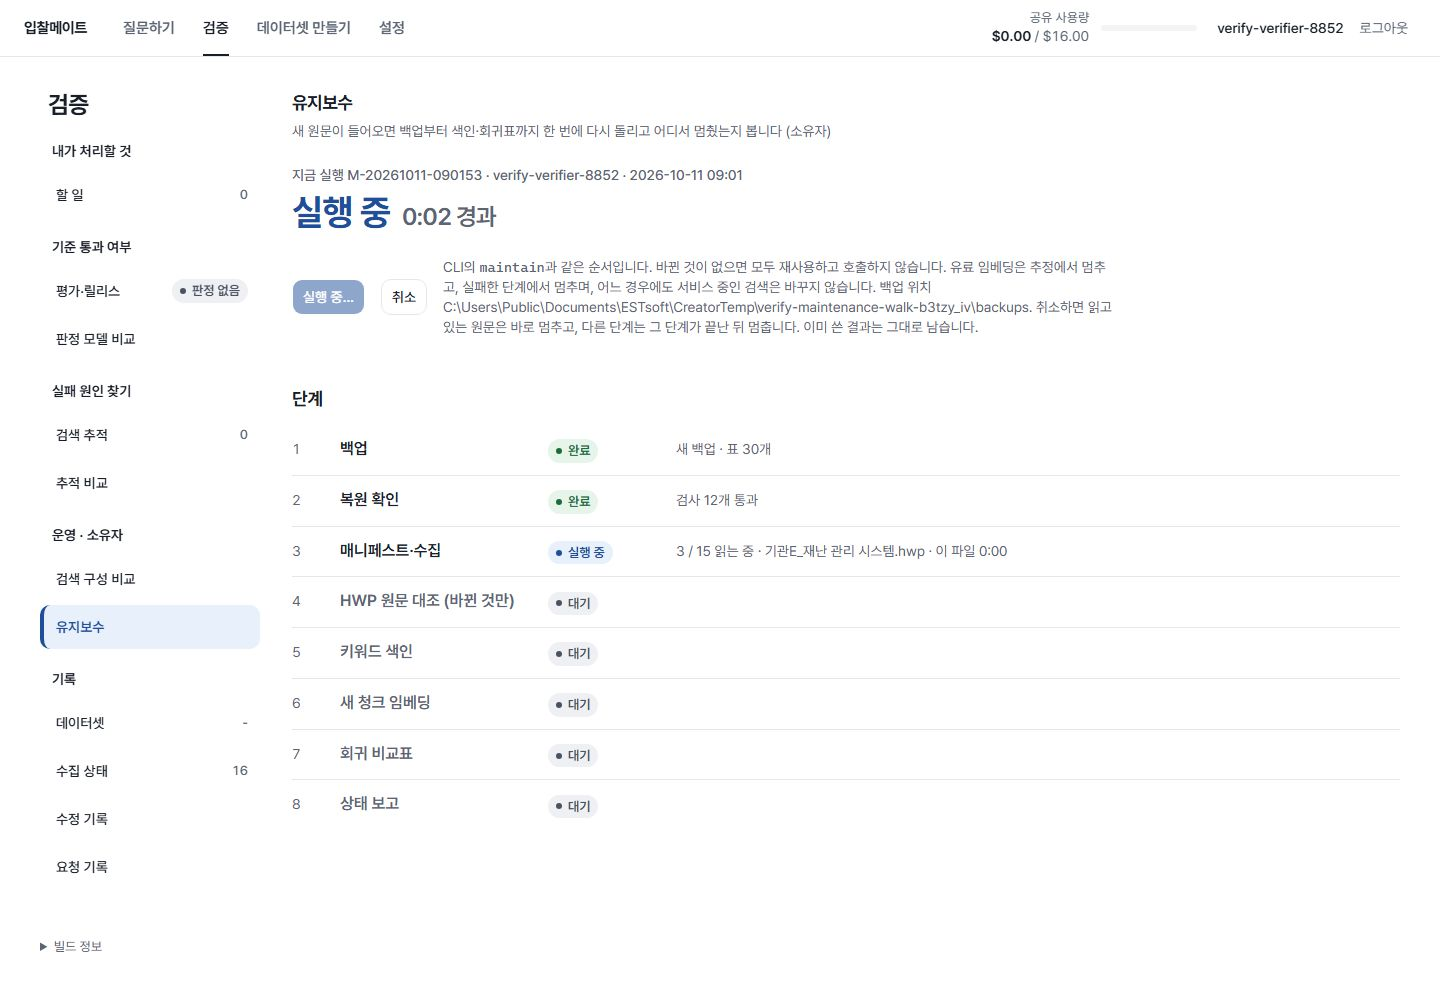
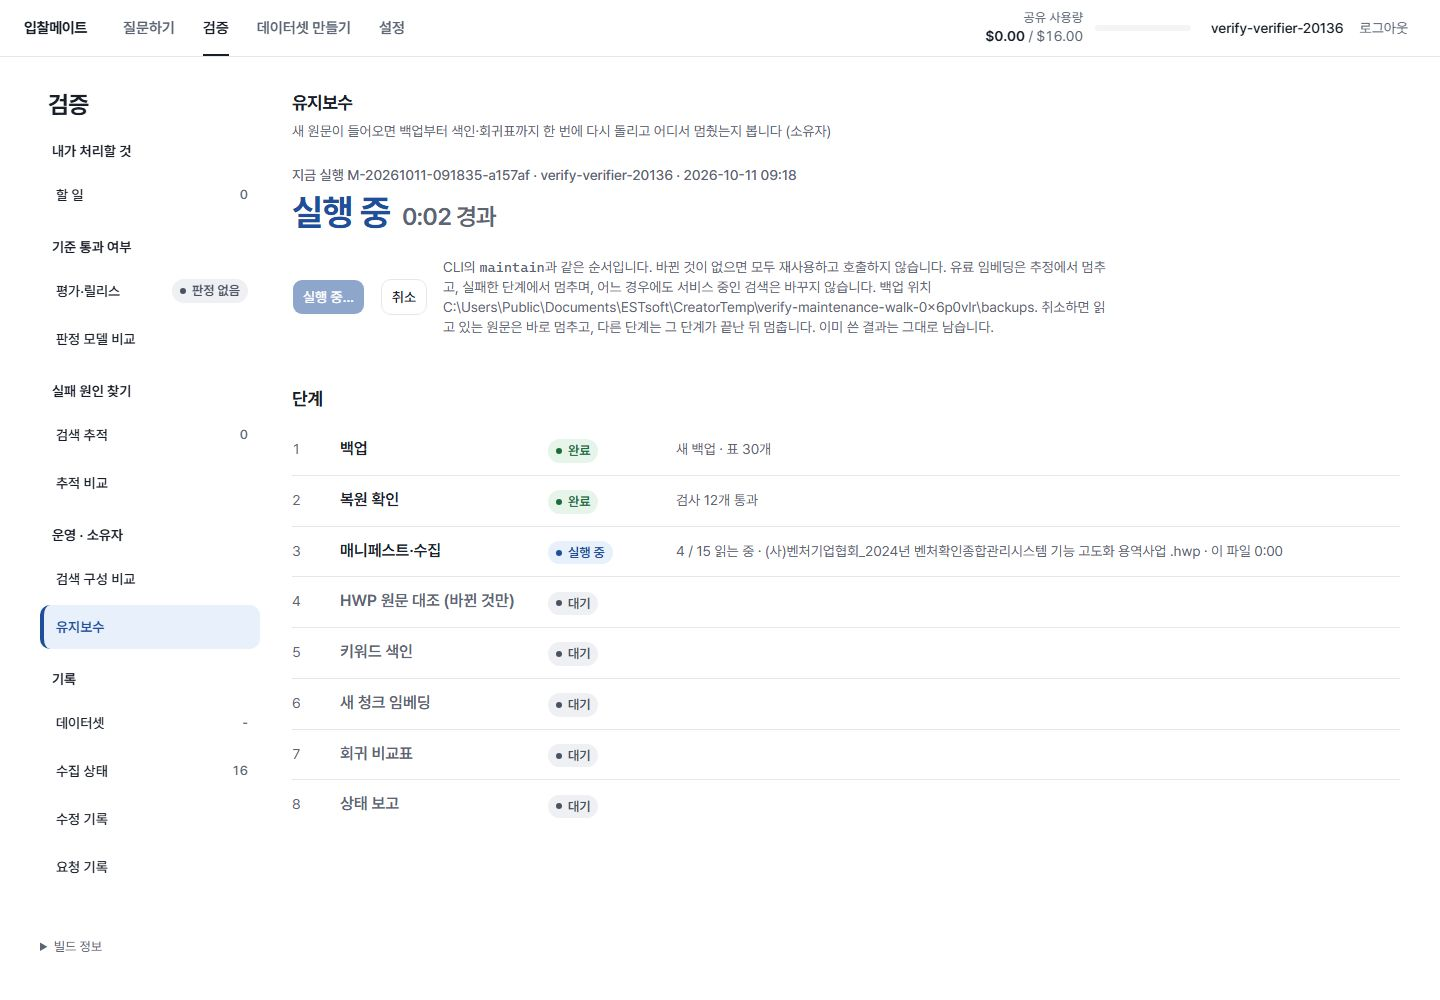
Maintenance walk: rerun at 9245c39 with the run-bound cancel
Review round 2, F4 evidence: the walk, the maintenance, API and ingestion tests
and the frontend checks rerun at the fix commit; a replayed cancel of the finished
run answers 400 and a cancel naming no run 422.

diff --git a/docs/history/maintenance-timeout-cancel/README.md b/docs/history/maintenance-timeout-cancel/README.md
@@ -38,7 +38,7 @@ re-parses them with pyhwp. Identical output reuses the earlier extraction ids. T
 
 ## Browser walk
 
-2026-10-11, at commit `edbb38e` with a clean tree (the first line of [walk-log.json](walk-log.json)): Chromium
+2026-10-11, at commit `9245c39` with a clean tree (the first line of [walk-log.json](walk-log.json)): Chromium
 through Playwright at 1440×1000, the API and the built screens on one uvicorn worker. The
 corpus was the fixture corpus, its keyword index activated, plus 12 real HWP originals added to the manifest:
 11 others and the 케빈랩 one, 15 unique originals in all. The local converter was used and the provider was fake.
@@ -48,8 +48,8 @@ A copy of the full local corpus was not used, because its `pg_dump` alone ran pa
 | Run | Observed |
 | --- | --- |
 | `parse_timeout_seconds: 1` | The 12 new HWPs each hit the limit; the fixture HWP read in time. The heading reads 끝났지만 검증되지 않음, followed by one Korean sentence ("시간 제한 안에 읽지 못한 원문 12개가 이전 추출로 남았습니다") and a notice listing the 12 filenames. Ingest reads "원문 16개 추출 모두 그대로 … · 1초 안에 못 읽은 12개는 이전 추출 유지". Fidelity, keyword, embedding, regression and report all ran. API status `unverified`, `timed_out` = the 12 names ([screen](timed-out-unverified.jpg)). Two seconds after the run ended, no `hwp5proc` started during the walk was still running: each killed parse took its converter with it. |
-| Default limit, 취소 | Backup and restore check done, then "실행 중 0:02 경과 · 3 / 15 읽는 중 · 기관E_재난 관리 시스템.hwp · 이 파일 0:00". Four seconds later: "0:06 경과 · 4 / 15 읽는 중 · (사)벤처기업협회_… .hwp · 이 파일 0:03" ([1](progress-1.jpg), [2](progress-2.jpg)). The page showed the cancelled state 2.4 s after 취소 was pressed: heading 매니페스트·수집에서 취소됨, then "verify-verifier-…이(가) 2026-10-11 09:02에 취소했습니다. 이미 쓴 결과는 그대로 남습니다." Ingest reads "3 / 15까지 읽고 멈춤 · … 읽던 중 취소", and later steps read 대기 ([screen](cancelled.jpg)). API status `cancelled`, `stopped_at` `ingest`, `cancelled_by` and `cancelled_at` set. The report `.md` was written, and 유지보수 실행 was enabled again. |
-| Cancel with no live run | `POST /api/verify/maintenance/cancel` answered 400 "실행 중인 유지보수가 없습니다." |
+| Default limit, 취소 | Backup and restore check done, then "실행 중 0:02 경과 · 4 / 15 읽는 중 · (사)벤처기업협회_… .hwp · 이 파일 0:00". Four seconds later: "0:06 경과 … 이 파일 0:04" ([1](progress-1.jpg), [2](progress-2.jpg)). 취소 sent the shown run's `run_id`, and the page showed the cancelled state 2.4 s after it was pressed: heading 매니페스트·수집에서 취소됨, then "verify-verifier-…이(가) 2026-10-11 09:18에 취소했습니다. 이미 쓴 결과는 그대로 남습니다." Ingest reads "3 / 15까지 읽고 멈춤 · … 읽던 중 취소", and later steps read 대기 ([screen](cancelled.jpg)). API status `cancelled`, `stopped_at` `ingest`, `cancelled_by` and `cancelled_at` set. The report `.md` was written, and 유지보수 실행 was enabled again. |
+| Cancel with no live run | Replaying the finished run's cancel (`POST /api/verify/maintenance/cancel` with its `run_id`) answered 400 "실행 중인 유지보수가 없습니다."; a cancel naming no run answered 422. |
 
 The first walk also found a bug, fixed before the runs above: a new original that timed out was also listed as
 changed, because `before` is read before the manifest import.
@@ -57,8 +57,8 @@ changed, because `before` is read before the manifest import.
 ## Focused checks at the same commit
 
 `tools/verify.py stage-review` runs neither the maintenance tests nor the frontend checks, so they were run at
-`edbb38e` on their own; the output is in [receipts.txt](receipts.txt):
-`unittest tests.test_maintenance tests.test_api tests.test_ingestion` (71 tests, OK), and in `web/`
+`9245c39` on their own; the output is in [receipts.txt](receipts.txt):
+`unittest tests.test_maintenance tests.test_api tests.test_ingestion` (72 tests, OK), and in `web/`
 `vitest run` (85 passed), `tsc --noEmit -p .` and `eslint src test` (both exit 0).
 
 Review round 1 added two regressions to `tests.test_maintenance`. A stub converter that records its PID and blocks
@@ -66,3 +66,9 @@ outlived its killed parse on the earlier code; it no longer does. A cancel accep
 left the run `complete` on the earlier code; it now ends `cancelled` at `report`. The Linux branch of the tree kill
 (own process group, `killpg`) was checked in a `python:3.12-slim` container, where the converter was gone after
 the timeout.
+
+Review round 2 found that the cancel named no run, so the service cancelled whatever ran when the request arrived.
+On the earlier code, a cancel meant for run A, delivered after A finished and run B started, was accepted for B
+and B ended `cancelled`. The cancel now carries the shown run's `run_id`, and a cancel naming another run is refused
+while B keeps running (`test_a_late_or_repeated_cancel_of_an_earlier_run_never_stops_the_next`). Run IDs gained a
+random suffix, because A and B often start within the same second.
